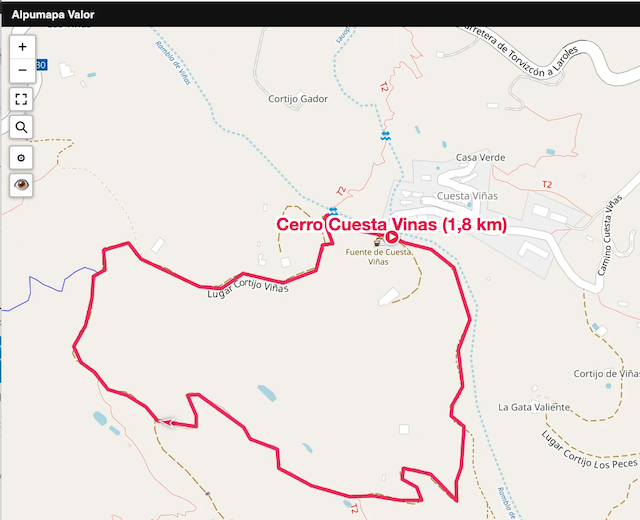
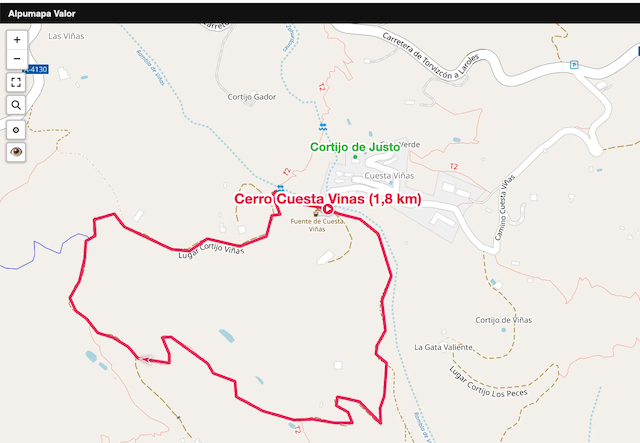
add valor project and map png preview cerro cv

diff --git a/docs/src/assets/html/cerro-cv.html b/docs/src/assets/html/cerro-cv.html
@@ -24,7 +24,7 @@
 <html lang="en">
 <head>
 <meta charset="utf-8">
-<meta name="generator" content="PeeWeeTrails Creator v165">
+<meta name="generator" content="PeeWeeTrails Creator v167">
 <meta name="viewport" content="width=device-width,initial-scale=1,viewport-fit=cover">
[1 lines of base64/hex data omitted]
 <link rel="stylesheet" href="https://unpkg.com/leaflet@1.9.4/dist/leaflet.css" crossorigin="">
@@ -431,7 +431,7 @@ body{font-family:sans-serif;background:#1c1c1e;color:#eee;height:100dvh;display:
 // =============================================================================
 
 // --- Embedded map data baked in at export time ---
-const D=[{"filename":"Cerro Cuesta Vinas","baseName":"Cerro Cuesta Vinas","color":"#e6194b","showLabel":true,"labelMode":"nametag","showStart":true,"labelPos":"start","labelZoomMin":14,"labelZoomMax":22,"labelFontSize":24,"useElementName":true,"lineWidth":5,"fillOpacity":0.2,"mapZoomMin":1,"mapZoomMax":22,"showKmMarkers":true,"kmMarkerInterval":1,"showTrackDist":true,"wptIconSvg":null,"wptIconSize":28,"colorMode":"fixed","lineStyle":"solid","tracks":[{"name":"","coords":[[36.99161237624614,-3.103669881820679],[36.99154382121856,-3.1034767627716064],[36.99146669673868,-3.1030905246734624],[36.99125246166199,-3.1027579307556157],[36.990644030753764,-3.102521896362305],[36.990284111587336,-3.1026935577392583],[36.98985563416856,-3.102629184722901],[36.98964139455401,-3.1027793884277344],[36.989512850495636,-3.1028008460998535],[36.98938430622003,-3.1026077270507817],[36.98890440567172,-3.10265064239502],[36.98873301188496,-3.102725744247437],[36.98851019938483,-3.1027150154113774],[36.98882727851546,-3.103101253509522],[36.98889583599154,-3.1034982204437256],[36.98876729067321,-3.1035196781158447],[36.98867302396834,-3.1033051013946538],[36.98851876910843,-3.1032299995422368],[36.98851876910843,-3.1035518646240234],[36.98857018742984,-3.1039381027221684],[36.98856161771201,-3.1042921543121342],[36.988690163377946,-3.1048500537872314],[36.98889583599154,-3.1053328514099126],[36.98911864736205,-3.1053543090820317],[36.989238622445065,-3.105751276016236],[36.989375736593935,-3.105847835540772],[36.9897613688125,-3.1065130233764653],[36.98975279922889,-3.106673955917359],[36.989512850495636,-3.106545209884644],[36.98938430622003,-3.106545209884644],[36.98945286319405,-3.1071138381958012],[36.989615685759716,-3.1072854995727544],[36.98975279922889,-3.1075644493103027],[36.98982135587078,-3.107843399047852],[36.99002702542573,-3.108047246932984],[36.99013842953577,-3.108240365982056],[36.99032695919647,-3.108347654342652],[36.99056690536149,-3.1081759929656982],[36.990892545374706,-3.108079433441162],[36.99114962861086,-3.1080579757690434],[36.991226753412235,-3.1078863143920903],[36.9914581273472,-3.1079077720642094],[36.99154382121856,-3.1075429916381836],[36.99135529457412,-3.1073606014251713],[36.99102965654212,-3.1065022945404057],[36.99100394821705,-3.106180429458618],[36.991183906310006,-3.1058585643768315],[36.99107250373124,-3.105268478393555],[36.99121818399374,-3.104785680770874],[36.99151811306731,-3.1046891212463383],[36.991535251835785,-3.1045389175415044],[36.9918094716062,-3.104667663574219],[36.99186945704919,-3.104624748229981],[36.991680931211924,-3.1041204929351807],[36.99162951499337,-3.103777170181275]],"ele":null,"distM":1781.5056642199195,"ascent":null}],"waypoints":[],"polygons":[]}];   // Array of track/waypoint objects (GPX/GeoJSON files)
+const D=[{"filename":"Cerro Cuesta Vinas","baseName":"Cerro Cuesta Vinas","color":"#e6194b","showLabel":true,"labelMode":"nametag","showStart":true,"labelPos":"start","labelZoomMin":14,"labelZoomMax":22,"labelFontSize":24,"useElementName":true,"lineWidth":5,"fillOpacity":0.2,"mapZoomMin":1,"mapZoomMax":22,"showKmMarkers":true,"kmMarkerInterval":1,"showTrackDist":true,"wptIconSvg":null,"wptIconSize":28,"colorMode":"fixed","lineStyle":"solid","tracks":[{"name":"","coords":[[36.99161237624614,-3.103669881820679],[36.99154382121856,-3.1034767627716064],[36.99146669673868,-3.1030905246734624],[36.99125246166199,-3.1027579307556157],[36.990644030753764,-3.102521896362305],[36.990284111587336,-3.1026935577392583],[36.98985563416856,-3.102629184722901],[36.98964139455401,-3.1027793884277344],[36.989512850495636,-3.1028008460998535],[36.98938430622003,-3.1026077270507817],[36.98890440567172,-3.10265064239502],[36.98873301188496,-3.102725744247437],[36.98851019938483,-3.1027150154113774],[36.98882727851546,-3.103101253509522],[36.98889583599154,-3.1034982204437256],[36.98876729067321,-3.1035196781158447],[36.98867302396834,-3.1033051013946538],[36.98851876910843,-3.1032299995422368],[36.98851876910843,-3.1035518646240234],[36.98857018742984,-3.1039381027221684],[36.98856161771201,-3.1042921543121342],[36.988690163377946,-3.1048500537872314],[36.98889583599154,-3.1053328514099126],[36.98911864736205,-3.1053543090820317],[36.989238622445065,-3.105751276016236],[36.989375736593935,-3.105847835540772],[36.9897613688125,-3.1065130233764653],[36.98975279922889,-3.106673955917359],[36.989512850495636,-3.106545209884644],[36.98938430622003,-3.106545209884644],[36.98945286319405,-3.1071138381958012],[36.989615685759716,-3.1072854995727544],[36.98975279922889,-3.1075644493103027],[36.98982135587078,-3.107843399047852],[36.99002702542573,-3.108047246932984],[36.99013842953577,-3.108240365982056],[36.99032695919647,-3.108347654342652],[36.99056690536149,-3.1081759929656982],[36.990892545374706,-3.108079433441162],[36.99114962861086,-3.1080579757690434],[36.991226753412235,-3.1078863143920903],[36.9914581273472,-3.1079077720642094],[36.99154382121856,-3.1075429916381836],[36.99135529457412,-3.1073606014251713],[36.99102965654212,-3.1065022945404057],[36.99100394821705,-3.106180429458618],[36.991183906310006,-3.1058585643768315],[36.99107250373124,-3.105268478393555],[36.99121818399374,-3.104785680770874],[36.99151811306731,-3.1046891212463383],[36.991535251835785,-3.1045389175415044],[36.9918094716062,-3.104667663574219],[36.99186945704919,-3.104624748229981],[36.991680931211924,-3.1041204929351807],[36.99162951499337,-3.103777170181275]],"ele":null,"distM":1781.5056642199195,"ascent":null}],"waypoints":[],"polygons":[]},{"filename":"Cortijo de Justo","baseName":"Cortijo de Justo","color":"#3cb44b","showLabel":true,"labelMode":"nametag","showStart":false,"labelPos":"centroid","labelZoomMin":15,"labelZoomMax":22,"labelFontSize":16,"useElementName":true,"lineWidth":3,"fillOpacity":0.2,"mapZoomMin":1,"mapZoomMax":22,"showKmMarkers":false,"kmMarkerInterval":1,"showTrackDist":false,"wptIconSvg":null,"wptIconSize":28,"colorMode":"fixed","lineStyle":"solid","tracks":[],"waypoints":[{"lat":36.99236547325748,"lon":-3.1031817197799683,"name":"","desc":""}],"polygons":[]}];   // Array of track/waypoint objects (GPX/GeoJSON files)
 // --- Snapshot: rebuild this page with the visitor's current routes baked in ---
 // __snapshotExtra is filled in from the route module (closure) so shareSnapshot,
 // which lives at top level, can reach the live userRoutes.
@@ -466,7 +466,7 @@ function shareSnapshot(){
     if(typeof showToast==='function') showToast('Snapshot saved to your downloads');
   }).catch(function(e){ alert('Sorry, the snapshot could not be built: '+e); });
 }
-const B=[[36.98851019938483,-3.108347654342652],[36.99186945704919,-3.102521896362305]]; // Combined bounding box of all tracks, or null
+const B=[[36.98851019938483,-3.108347654342652],[36.99236547325748,-3.102521896362305]]; // Combined bounding box of all tracks, or null
 const MAX_ZOOM=22;                 // tiles are optically over-zoomed (blurred) beyond their native resolution up to this level
 // (auto-center-on-idle setting now lives in FOLLOW_DELAY, defined further down)
 const WPTZOOM=1;          // Minimum zoom level for waypoint labels to appear
@@ -788,9 +788,9 @@ const DIST_UNIT="km";
 const APP_ICON_COLOR="#0e518d";
 const APP_ICON_BIKE="#f7fbf5";
 const START_LOCMODE="off";
-const WELCOME_CONFIG={"enabled":false,"text":"Tip: add this map to your phone's home screen for quick, app-like access. Open your browser menu and choose \"Add to Home screen\" (Android) or Share → \"Add to Home Screen\" (iPhone). On a computer you can bookmark this page instead. This map needs an internet connection."};
+const WELCOME_CONFIG={"enabled":false,"text":"Tip: add this map to your phone's home screen for quick, app-like access. Open your browser menu and choose \"Add to Home screen\" (Android) or Share → \"Add to Home Screen\" (iPhone). On a computer you can bookmark this page instead. This map needs an internet connection.","delaySec":45};
 const SEARCH_CATS=[{"icon":"🅿","label":"Parking","terms":["parking","car park"]},{"icon":"🍽","label":"Restaurant","terms":["restaurant"]},{"icon":"🛒","label":"Supermarket","terms":["supermarket"]},{"icon":"🥐","label":"Bakery","terms":["bakery"]},{"icon":"🪑","label":"Bench","terms":["bench","picnic site","picnic table"]},{"icon":"🍱","label":"Picnic site","terms":["picnic site","picnic table"]},{"icon":"🚿","label":"Drinking water","terms":["drinking water"]},{"icon":"🚽","label":"Toilets","terms":["toilets"]},{"icon":"🏕","label":"Shelter","terms":["shelter"]},{"icon":"👀","label":"Viewpoint","terms":["viewpoint"]},{"icon":"⛺","label":"Camp- Caravan site","terms":["camp site","caravan site"]},{"icon":"🚲","label":"Bicycle shop","terms":["bicycle shop"]},{"icon":"☕","label":"Café","terms":["cafe"]},{"icon":"🍺","label":"Pub","terms":["pub"]}];
-const PREVIEW_VIEW={"lat":36.99048777141416,"lng":-3.1050056219100957,"zoom":17};
+const PREVIEW_VIEW={"lat":36.99046206290591,"lng":-3.101947903633118,"zoom":17};
 const INFO_URL="https://peeweeosm.github.io/webmaps/PeeWeeTrails_Basic_Info.html";
 const FEEDBACK_EMAIL="";
 // Remember which extra layers are ticked, across a browser reload / tab discard.
@@ -2409,7 +2409,7 @@ function setLocMode(m){
   else if(m==='compass'){ locBtn.classList.add('tracking'); startGPS(); requestWakeLock(); startCompass(); }
   else { locBtn.classList.add('tracking'); startGPS(); orient(); requestWakeLock(); }
 }
-locBtn.onclick=function(e){ e.stopPropagation(); compassMenu.classList.toggle('hidden'); };
+locBtn.onclick=function(e){ e.stopPropagation(); if(compassMenu.classList.contains('hidden')){ closePanelsExcept('compass-menu'); compassMenu.classList.remove('hidden'); } else { compassMenu.classList.add('hidden'); } };
 locBtn.addEventListener('dblclick',function(e){ e.preventDefault(); e.stopPropagation(); compassMenu.classList.add('hidden'); if(locMode==='compass'){ setLocMode('north'); return; } northHold=true; following=true; lastUserInteraction=Date.now(); if(locMode!=='off' && lastKnownLatLng){ orient(); } else { setBearingProg(0); } });
 document.addEventListener('click',function(e){ if(!document.getElementById('loc-overlay').contains(e.target)) compassMenu.classList.add('hidden'); });
 document.querySelectorAll('#compass-menu .cm-item').forEach(function(el){ el.addEventListener('click',function(ev){ ev.stopPropagation(); setLocMode(el.dataset.mode); }); });
@@ -2454,6 +2454,7 @@ if(__geoOK && urlState && urlState.z!=null){ sharedView=true; following=false; }
   var key='PeeWeeTrails_welcome__'+location.pathname;
   try{ if(localStorage.getItem(key)==='1') return; }catch(e){}
   function wEsc(s){ return String(s==null?'':s).split('&').join('&amp;').split('<').join('&lt;').split('>').join('&gt;'); }
+  function showWelcome(){
   var ov=document.createElement('div');
   ov.style.cssText='position:fixed;inset:0;z-index:100000;background:rgba(0,0,0,.45);display:flex;align-items:center;justify-content:center;padding:18px';
   var box=document.createElement('div');
@@ -2467,6 +2468,14 @@ if(__geoOK && urlState && urlState.z!=null){ sharedView=true; following=false; }
   document.body.appendChild(ov);
   var okb=document.getElementById('welcome-ok'); if(okb) okb.addEventListener('click',closeOnce);
   var nvb=document.getElementById('welcome-never'); if(nvb) nvb.addEventListener('click',closeForever);
+  }
+  var delayMs=Math.max(0,(WELCOME_CONFIG.delaySec||0))*1000;
+  if(delayMs<=0){ showWelcome(); return; }
+  // Show only after enough *active* (visible) time, so it never pops up on an idle/background tab.
+  var _wactive=0, _wlast=Date.now();
+  function _waccrue(){ if(document.visibilityState==='visible'){ _wactive+=Date.now()-_wlast; } _wlast=Date.now(); }
+  document.addEventListener('visibilitychange',_waccrue);
+  var _wtimer=setInterval(function(){ _waccrue(); if(_wactive>=delayMs){ clearInterval(_wtimer); document.removeEventListener('visibilitychange',_waccrue); showWelcome(); } },1000);
 })();
 
 // A manual zoom (pinch or +/-) is temporary: it does NOT change the "Zoom level"
